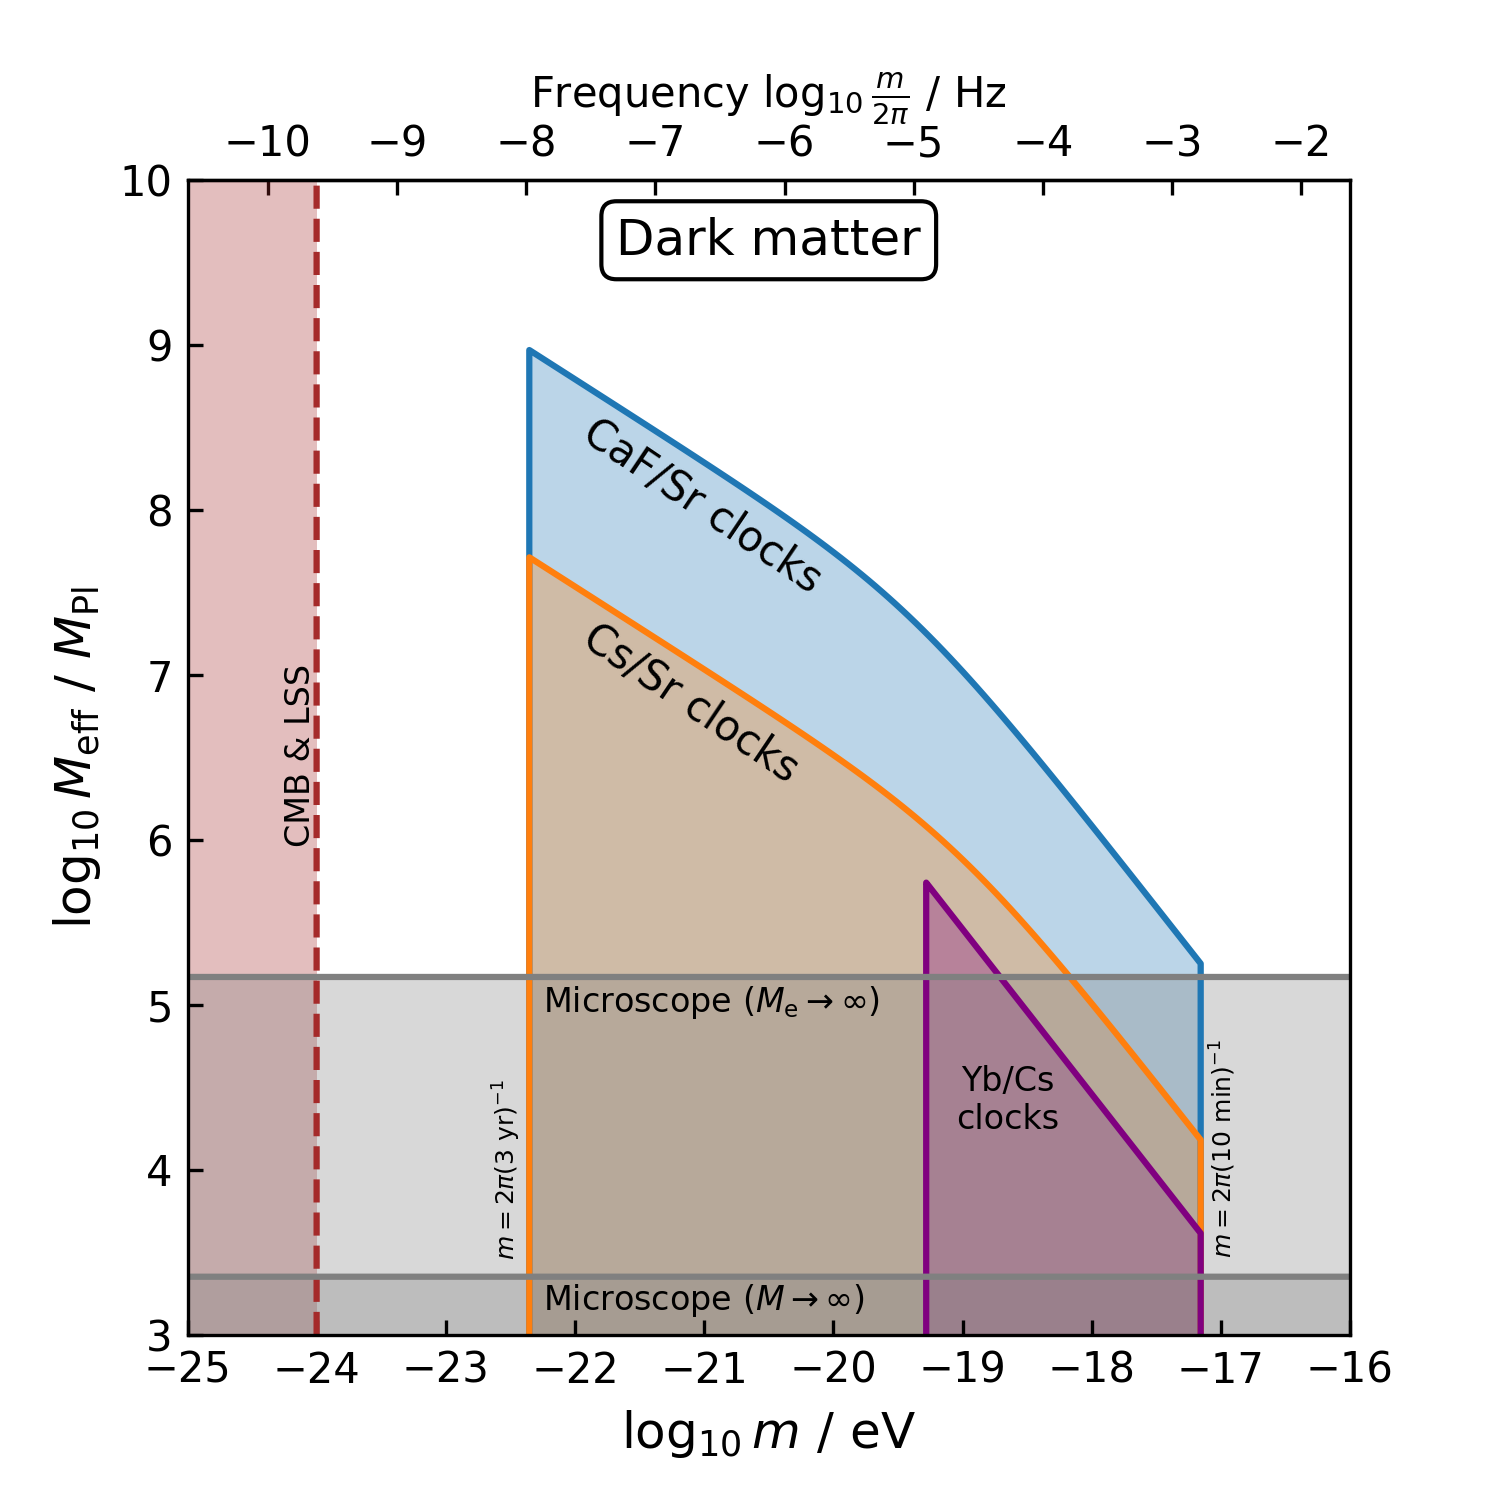
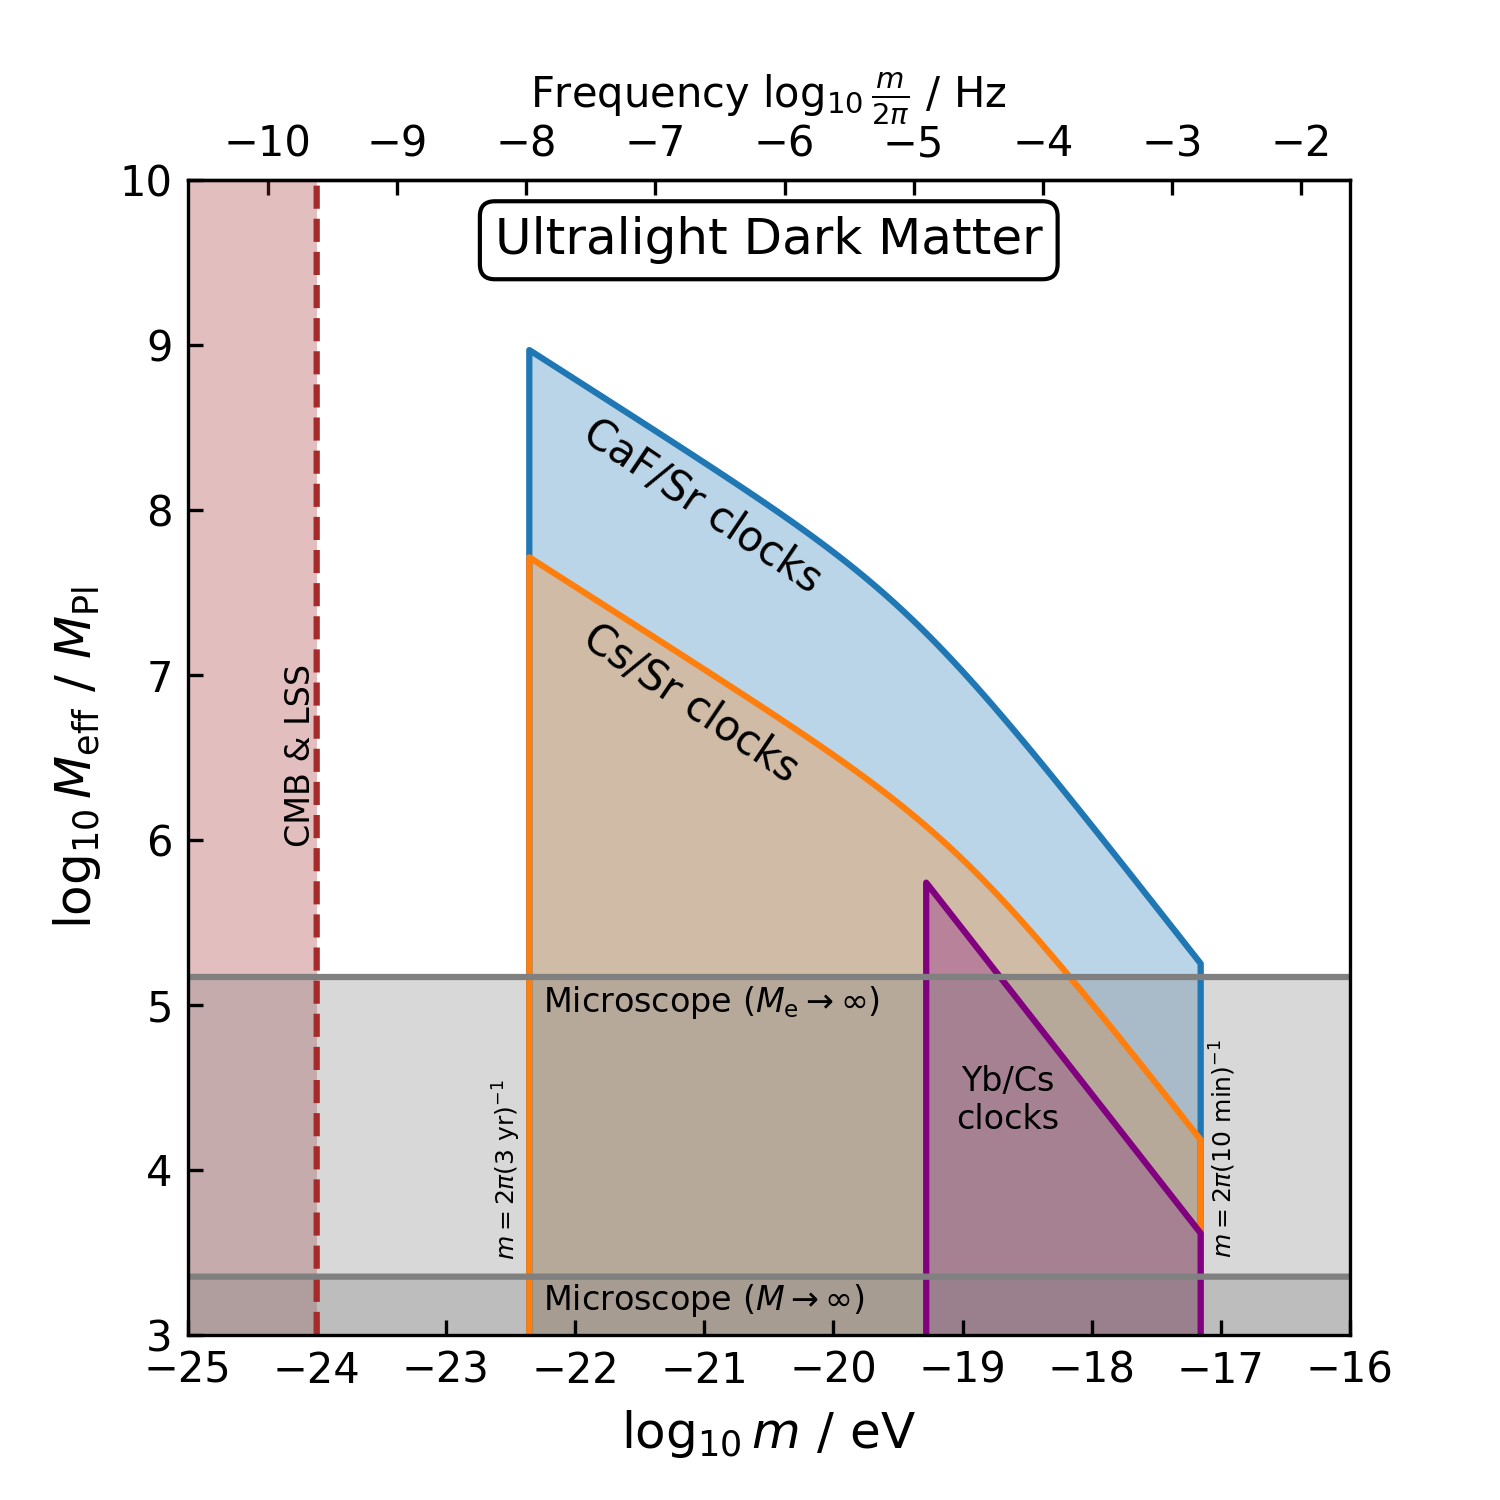
more cleanup
move purgatory/ into old/

move some theory-specific .py files into theory/

Changed region(s): [[0.3067, 0.1227, 0.7053, 0.2147]]

diff --git a/plot_options.py b/plot_options.py
@@ -8,6 +8,12 @@
 
 import matplotlib.pyplot as plt
 
+# Number of grid points in the plots.
+# Around 1k looks ok and is fast.
+# Set this to a high value (~10k) for the final versions
+# of the plots.
+resolution = 5000
+
 # Color scheme
 colorcycle = plt.rcParams['axes.prop_cycle'].by_key()['color']
 
@@ -15,11 +21,5 @@ colorcycle = plt.rcParams['axes.prop_cycle'].by_key()['color']
 # size on a page.
 figsize = (5, 5)
 dpi_setting = 300
-
-# Number of grid points in the plots.
-# Around 1k looks ok and is fast.
-# Set this to a high value (~10k) for the final versions
-# of the plots.
-resolution = 10000
 
 title_box_properties = dict(boxstyle='round', facecolor = "white", alpha=1.0)

diff --git a/DM-plots.py b/DM-plots.py
@@ -9,11 +9,11 @@
 import matplotlib.pyplot as plt
 import numpy as np
 
-from physical_constants import *
+from theory.physical_constants import *
+import theory.bounds as bounds
+
 import mu_constraints as mc
 import plot_options as po
-#import field_solutions as dphi
-import bounds
 
 ### Ultralight dark matter bounds ###
 plt.figure(1, figsize=po.figsize)
@@ -107,7 +107,7 @@ plt.tick_params(direction='in')
 
 x_pos = np.mean([xmin, xmax])
 props = po.title_box_properties
-plt.text(x_pos, 9.55, "Dark matter",
+plt.text(x_pos, 9.55, "Ultralight Dark Matter",
          ha='center', fontsize=12, bbox=props)
 
 

diff --git a/MG-plots.py b/MG-plots.py
@@ -9,11 +9,12 @@
 import matplotlib.pyplot as plt
 import numpy as np
 
-from physical_constants import *
+from theory.physical_constants import *
+import theory.bounds as bounds
+import theory.field_solutions as dphi
+
 import mu_constraints as mc
 import plot_options as po
-import field_solutions as dphi
-import bounds
 
 def clock_bound(M, dphi):
     """ Modified gravity clock signal.

diff --git a/DE-plots.py b/DE-plots.py
@@ -6,10 +6,10 @@
 import matplotlib.pyplot as plt
 import numpy as np
 
-from physical_constants import *
+from theory.physical_constants import *
+import theory.bounds as bounds
 import mu_constraints as mc
 import plot_options as po
-import bounds
 
 def clock_bound(M, M_e, clock_pair, w = -0.95):
     # Amplitude in s^-1.  Convert to eV

diff --git a/theory/bounds.py b/theory/bounds.py
@@ -7,7 +7,7 @@
 """
 import numpy as np
 
-from physical_constants import *
+from theory.physical_constants import *
 
 microscope_eta = np.sqrt(2.3**2 + 1.5**2) * 1e-15
 microscope_r = 7000 * 1e5 / hbar

diff --git a/README.md b/README.md
@@ -51,7 +51,7 @@ other common useful tasks.  To generate the plots, run the command
 ```
 The plot-generation scripts can also be run individually, if desired, e.g.
 ```
-> python DM-A-vs-omega.py
+> python MG-plots.py
 ```
 
 ---
